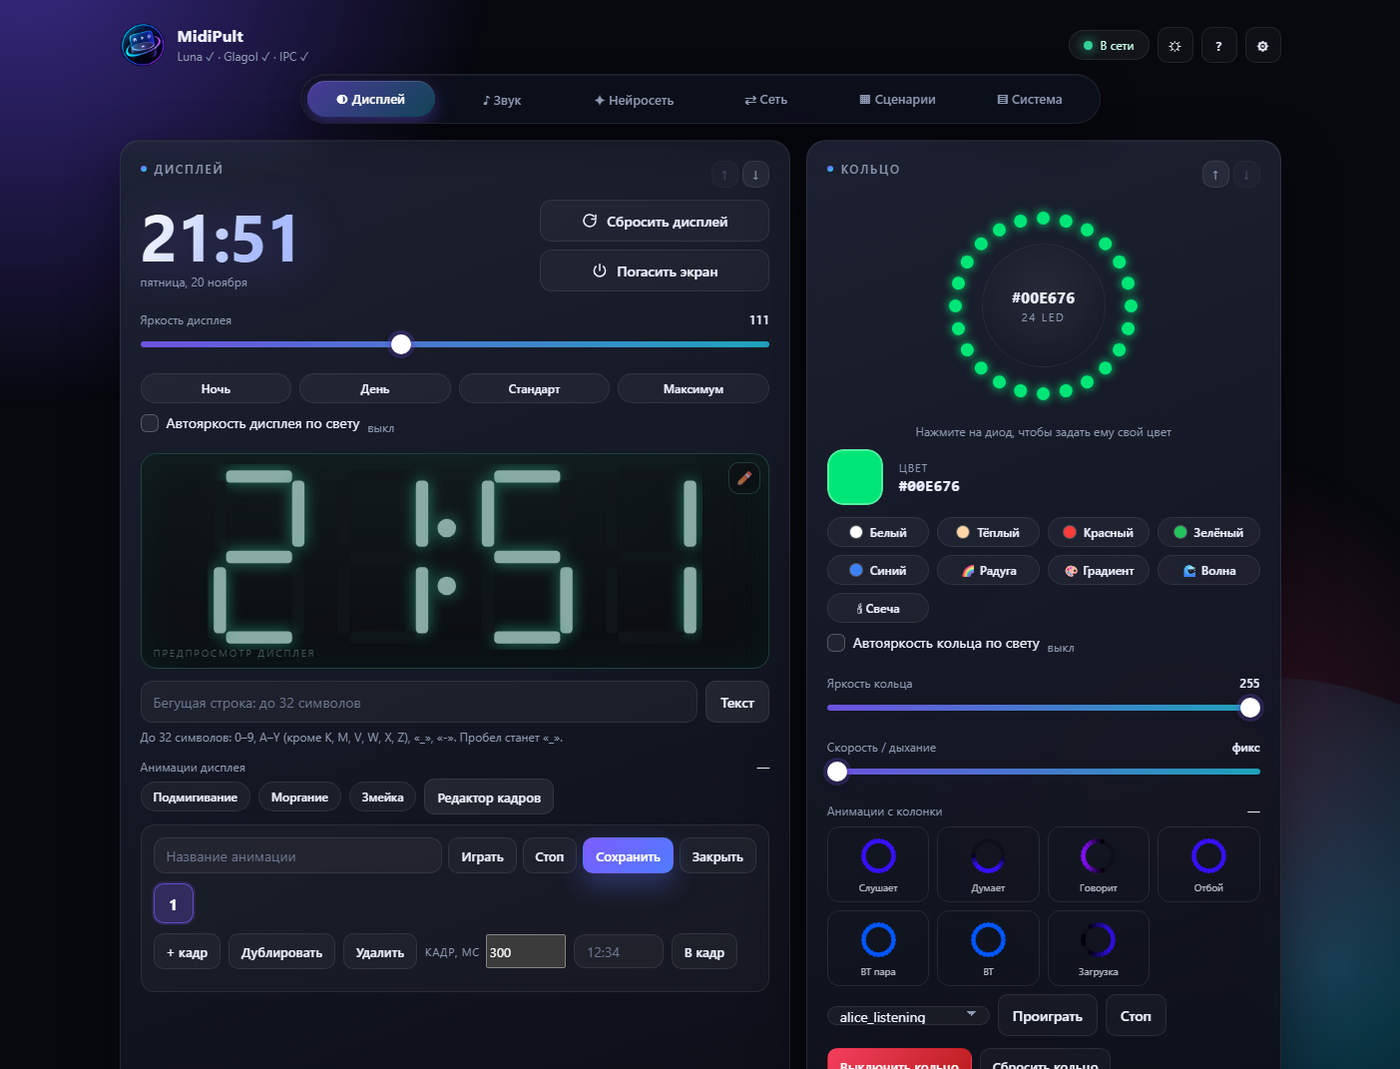
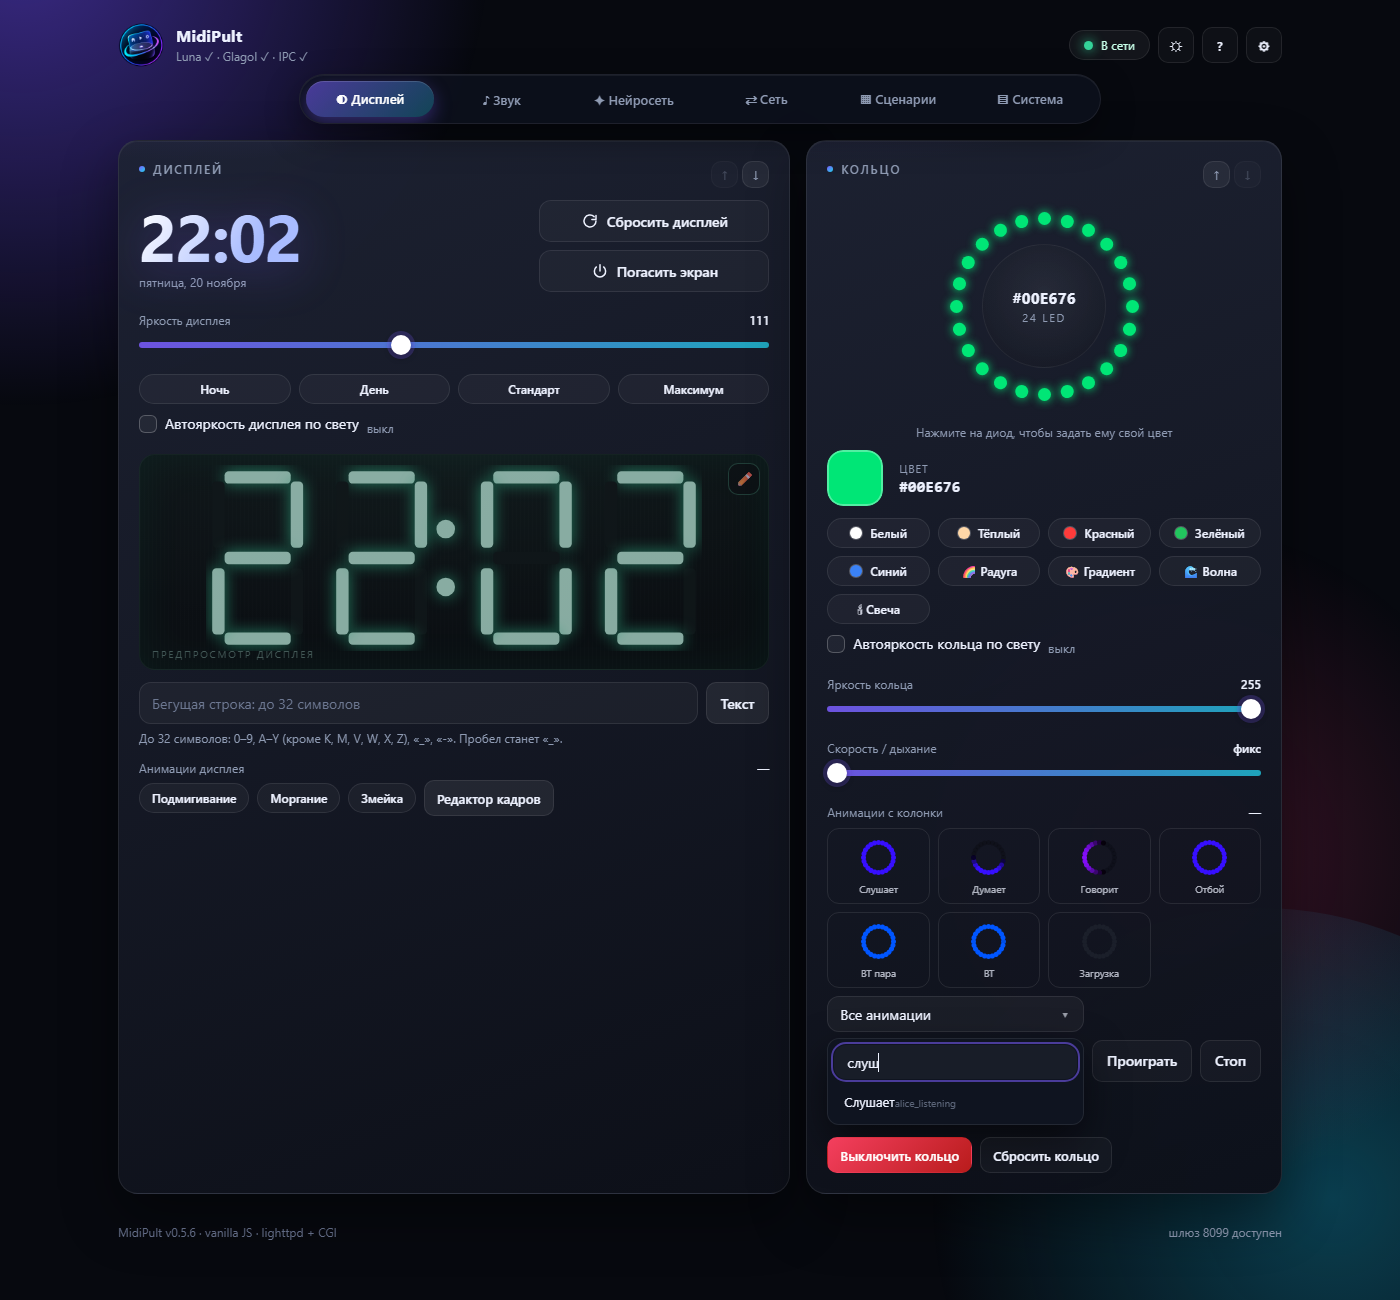
0.5.6: custom ring animation picker and fix play event bug

diff --git a/index.html b/index.html
@@ -183,6 +183,15 @@ main.grid{
   .radio-grid .radio-label{flex:1 1 auto;min-width:0;overflow:hidden;text-overflow:ellipsis;white-space:nowrap;text-align:left}
   .radio-picker{position:relative;margin-top:12px;z-index:2}
 .c-radio{overflow:hidden}
+.ring-anim-row{align-items:flex-start}
+.ring-picker{position:relative;flex:1 1 240px;min-width:0;z-index:2}
+.ring-picker .alarm-select{height:36px}
+.ring-picker .ring-list{position:static;left:auto;right:auto;top:auto;max-height:240px;
+  margin-top:6px;padding:6px;background:#0f1420;border-radius:12px;overscroll-behavior:contain}
+.ring-option{display:flex;align-items:center;gap:8px;width:100%;font-size:13px}
+.ring-option .ring-raw{margin-left:auto;color:var(--muted);font-size:10px;opacity:.6}
+.ring-option[hidden]{display:none}
+.ring-list .net-input{height:34px;margin-bottom:6px;position:sticky;top:-6px;z-index:1}
 .radio-pick-count{font-size:11px;color:var(--muted);margin-left:auto;margin-right:2px}
 .radio-picker .radio-list{position:static;left:auto;right:auto;top:auto;max-height:260px;
   margin-top:8px;padding:6px;background:#0f1420;border-radius:12px;overscroll-behavior:contain}
@@ -1229,8 +1238,19 @@ body.booting main.grid,body.booting .tabs,body.booting footer{visibility:hidden}
     <div class="field" style="margin-top:14px">
       <div class="field-top"><label>Анимации с колонки</label><output id="ringAnimStatus">—</output></div>
       <div class="anim-grid" id="ringAnimChips"></div>
-      <div class="row" style="margin-top:8px">
-        <select id="ringAnim" aria-label="Все анимации кольца"></select>
+      <div class="row ring-anim-row" style="margin-top:8px">
+        <div class="ring-picker">
+          <button type="button" class="alarm-select" id="btnRingPick"
+                  aria-haspopup="listbox" aria-expanded="false">
+            <span id="ringPickName">Все анимации</span>
+            <span class="alarm-caret">▾</span>
+          </button>
+          <div class="alarm-station-list ring-list" id="ringPickPop" hidden>
+            <input type="text" id="ringSearch" class="net-input" placeholder="Поиск анимации"
+                   autocomplete="off" aria-label="Поиск анимации кольца">
+            <div id="ringAnimList" role="listbox" aria-label="Анимации кольца"></div>
+          </div>
+        </div>
         <button class="btn ghost sm" id="btnRingAnimPlay">Проиграть</button>
         <button class="btn ghost sm" id="btnRingAnimStop">Стоп</button>
       </div>
@@ -6639,7 +6659,7 @@ body.booting main.grid,body.booting .tabs,body.booting footer{visibility:hidden}
         applyBrightness(data.display_brightness, false);
       }
       applyAutoConfig(data.auto || {}, data.mode || {});
-      if (el.ringAnim && data.animations) {
+      if (el.ringAnimChips && data.animations) {
         renderRingAnims(data.animations, data.animation ? State.ringAnimName : null);
         if (el.ringAnimStatus) {
           el.ringAnimStatus.textContent = data.animation ? 'играет' : '—';
@@ -6727,6 +6747,30 @@ body.booting main.grid,body.booting .tabs,body.booting footer{visibility:hidden}
       tile.active = active || tile.hovered;
     });
     if (el.ringAnimStatus) el.ringAnimStatus.textContent = name ? 'играет' : '—';
+    if (el.ringPickName) {
+      el.ringPickName.textContent = name ? (RING_ANIM_LABELS[name] || name) : 'Все анимации';
+    }
+  }
+
+  function filterRingAnims() {
+    if (!el.ringAnimList || !el.ringSearch) return;
+    var query = (el.ringSearch.value || '').trim().toLowerCase();
+    Array.prototype.forEach.call(el.ringAnimList.children, function (option) {
+      var text = (option.dataset.name || '').toLowerCase() + ' ' +
+        (option.textContent || '').toLowerCase();
+      option.hidden = !!query && text.indexOf(query) < 0;
+    });
+  }
+
+  function toggleRingPick(show) {
+    if (!el.ringPickPop || !el.btnRingPick) return;
+    el.ringPickPop.hidden = !show;
+    el.btnRingPick.setAttribute('aria-expanded', show ? 'true' : 'false');
+    if (show) {
+      el.ringSearch.value = '';
+      filterRingAnims();
+      setTimeout(function () { el.ringSearch.focus(); }, 30);
+    }
   }
 
   function renderRingAnims(animations, playingName) {
@@ -6774,15 +6818,37 @@ body.booting main.grid,body.booting .tabs,body.booting footer{visibility:hidden}
         loadRingFrames(name);
       }
     });
-    var current = el.ringAnim.value;
-    el.ringAnim.innerHTML = '';
-    list.forEach(function (item) {
-      var option = document.createElement('option');
-      option.value = item.name;
-      option.textContent = item.name;
-      el.ringAnim.appendChild(option);
-    });
-    if (current) el.ringAnim.value = current;
+    if (el.ringAnimList) {
+      el.ringAnimList.innerHTML = '';
+      var seen = {};
+      list.forEach(function (item) {
+        if (seen[item.name]) return;
+        seen[item.name] = true;
+        var option = document.createElement('button');
+        option.type = 'button';
+        option.className = 'alarm-station-item ring-option';
+        option.dataset.name = item.name;
+        option.setAttribute('role', 'option');
+        option.title = item.name;
+        var label = document.createElement('span');
+        label.className = 'ring-label';
+        label.textContent = RING_ANIM_LABELS[item.name] || item.name;
+        option.appendChild(label);
+        if (RING_ANIM_LABELS[item.name]) {
+          var raw = document.createElement('span');
+          raw.className = 'ring-raw';
+          raw.textContent = item.name;
+          option.appendChild(raw);
+        }
+        option.addEventListener('click', function () {
+          toggleRingPick(false);
+          playRingAnim(item.name);
+        });
+        el.ringAnimList.appendChild(option);
+      });
+      filterRingAnims();
+    }
+    markRingAnim(playingName);
   }
 
   function tickRingAnims() {
@@ -6796,8 +6862,8 @@ body.booting main.grid,body.booting .tabs,body.booting footer{visibility:hidden}
   }
 
   function playRingAnim(name) {
-    name = name || (el.ringAnim && el.ringAnim.value);
-    if (!name) { toast('Анимации не найдены', 'warn'); return; }
+    name = typeof name === 'string' ? name : (State.ringAnimName || '');
+    if (!name) { toast('Выберите анимацию кольца', 'warn'); return; }
     return cgi('display.py', { ring_anim: name }, { timeout: 10000 }).then(function () {
       State.ringAnimName = name;
       markRingAnim(name);
@@ -7723,8 +7789,23 @@ body.booting main.grid,body.booting .tabs,body.booting footer{visibility:hidden}
     /* дисплей */
     el.btnDisplayReset.addEventListener('click', resetDisplay);
     el.btnRingReset.addEventListener('click', resetRing);
-    el.btnRingAnimPlay.addEventListener('click', playRingAnim);
+    el.btnRingAnimPlay.addEventListener('click', function () { playRingAnim(); });
     el.btnRingAnimStop.addEventListener('click', stopRingAnim);
+    el.btnRingPick.addEventListener('click', function (ev) {
+      ev.stopPropagation();
+      toggleRingPick(el.ringPickPop.hidden);
+    });
+    el.ringSearch.addEventListener('input', filterRingAnims);
+    el.ringPickPop.addEventListener('click', function (ev) { ev.stopPropagation(); });
+    document.addEventListener('click', function (ev) {
+      if (!ev.target.closest('.ring-picker')) toggleRingPick(false);
+    });
+    document.addEventListener('keydown', function (ev) {
+      if (ev.key === 'Escape' && el.ringPickPop && !el.ringPickPop.hidden) {
+        toggleRingPick(false);
+        el.btnRingPick.focus();
+      }
+    });
     el.btnScreenOff.addEventListener('click', function () {
       withBusy(el.btnScreenOff, function () {
         return sendDisplayOff().then(function () {
@@ -8345,7 +8426,8 @@ body.booting main.grid,body.booting .tabs,body.booting footer{visibility:hidden}
       'displayText', 'btnDisplayText', 'btnClockBack',
       'ring', 'ringDots', 'ringHex', 'colorPicker', 'colorCode', 'presets', 'btnLedOff', 'btnRingReset', 'ledHint',
       'ringBrightness', 'ringBrightVal', 'ringSpeed', 'ringSpeedVal',
-      'ringAnim', 'ringAnimStatus', 'ringAnimChips', 'btnRingAnimPlay', 'btnRingAnimStop',
+      'ringAnimStatus', 'ringAnimChips', 'btnRingAnimPlay', 'btnRingAnimStop',
+      'btnRingPick', 'ringPickName', 'ringPickPop', 'ringSearch', 'ringAnimList',
       'mediaTitle', 'mediaSub', 'btnPrev', 'btnPlay', 'btnNext', 'mediaCover', 'mediaArtIcon',
       'btnMusic', 'mediaKind', 'mediaSeek', 'mediaPos', 'mediaDur', 'mediaProgress',
       'btnLyrics', 'lyricsStatus', 'lyricsBox',

diff --git a/tests/static_checks.py b/tests/static_checks.py
@@ -531,7 +531,7 @@ def test_yapanel_features():
           and "lrclib.net" in lyrics_py and "parse_lrc" in lyrics_py)
     check("UI: follow-up, анимации и текст песни",
           all(token in html for token in (
-              'id="llmFollowUp"', 'id="ringAnim"', 'id="ringAnimChips"',
+              'id="llmFollowUp"', 'id="ringPickPop"', 'id="ringAnimChips"',
               'id="btnLyrics"', 'id="lyricsBox"', "currentProgress")))
     check("текст: без караоке-заливки",
           "np-lyric-text::before" not in html and "State.audioProgress" in html)

diff --git a/CHANGELOG.md b/CHANGELOG.md
@@ -5,6 +5,14 @@
 развивался итерациями `0.0.x`; полная история — в
 [docs/CHANGELOG-dev.md](docs/CHANGELOG-dev.md).
 
+## 0.5.6 — 2026-11-20
+
+- Кольцо: вместо нативного `<select>` — аккуратный список анимаций с поиском
+  и русскими названиями; известные анимации показываются с превью-плитками.
+- Исправлена ошибка «нет такой анимации кольца»: кнопка «Проиграть» больше не
+  передаёт объект события вместо имени анимации.
+- В списке убраны дубликаты из `ring`/`oknix`, поиск работает по имени и
+  переводу.
 ## 0.5.5 — 2026-11-20
 
 - Радио: вместо сетки из 29 кнопок — компактный выпадающий список с поиском;

diff --git a/README.md b/README.md
@@ -16,7 +16,7 @@
 плеер и радио, голосовые команды, нейросеть по API, VPN, Bluetooth, Wi-Fi,
 сценарии с расписанием, резервные копии и диагностика.
 
-Текущая версия — **0.5.5**. Работает на самой колонке: `lighttpd` на порту **8055** + CGI на Python.
+Текущая версия — **0.5.6**. Работает на самой колонке: `lighttpd` на порту **8055** + CGI на Python.
 Интерфейс — один `index.html` на чистом HTML/CSS/JS, без React, Node и внешних CDN.
 
 [Репозиторий приложения Android](https://github.com/RoBiN19666/midipult-android)
